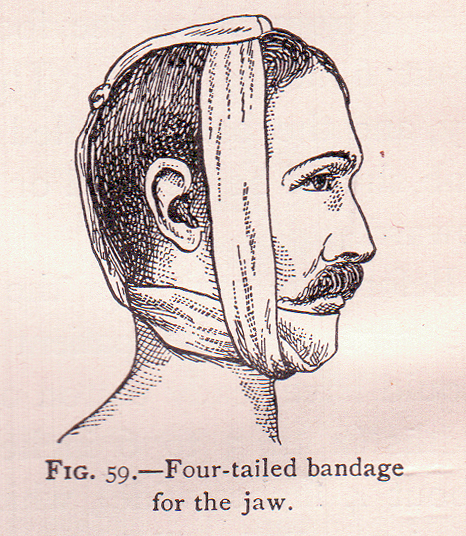
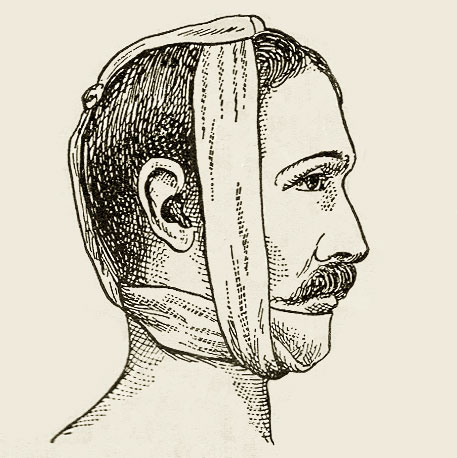
Style overhaul
Reverse order for episodes, removed background, removed JS, tweaked icon/image.

Fonts inspired by http://weblog.bocoup.com

diff --git a/index.html b/index.html
@@ -14,71 +14,78 @@
         <script src="/js/vendor/modernizr-2.6.2.min.js"></script>
     </head>
     <body>
-        <section id="description" data-type="background" data-speed="10">
-            <article>
+        <div id="wrapper">
+            <header>
                 <h1>Jawgrind</h1>
+                <h2>A podcast discussing every Star Trek episode ever.</h2>
                 <div class="icon"><img src="/img/jawgrind.jpg" alt="Jawgrind's mascot"></div>
-
-                <p>Jawgrind is a podcast where 5 guys (<a href="https://twitter.com/trey">Trey</a>, <a href="https://twitter.com/super_structure">Jason</a>, <a href="https://twitter.com/ploafmaster">Daniel</a>, <a href="https://twitter.com/calem">Cale</a>, <a href="https://twitter.com/philbarbato">Phil</a>) talk (mostly) about Star Trek.</p>
-                <p>So far, it's been about episodes of <a href="http://en.wikipedia.org/wiki/Star_Trek:_The_Original_Series">The Original Series</a>, but we plan to move onto the movies with the original cast and then <a href="http://en.wikipedia.org/wiki/Star_Trek_animated_series">The Animated Series</a>, <a href="http://en.wikipedia.org/wiki/Star_Trek:_The_Next_Generation">TNG</a>, <a href="http://en.wikipedia.org/wiki/DS9">DS9</a>, <a href="http://en.wikipedia.org/wiki/Star_Trek:_Voyager">Voyager</a>, and <a href="http://en.wikipedia.org/wiki/Star_Trek:_Enterprise ">Enterprise</a>. And then the rest of the movies. So. Basically everything. Eventually. Stick with us, won't you?</p>
-                <p>The show evolved out of a tech news podcast of sorts, but you can find the first bits of the current incarnation starting in <a href="http://jawgrind.com/4">Episode 4</a>.</p>
-
-                <section id="subscribe">
-                    <h2>Subscribe</h2>
-                    <ul>
-                        <li><a href="http://itunes.apple.com/us/podcast/jawgrind/id531588663">iTunes</a></li>
-                        <li><a href="http://feeds.feedburner.com/thirdavenue-jawgrind">RSS</a></li>
-                    </ul>
+                <section id="description" data-type="background" data-speed="10">
+                    <p>Jawgrind is a podcast where <a href="https://twitter.com/calem">Cale</a>, 
+                    <a href="https://twitter.com/ploafmaster">Daniel</a>, 
+                    <a href="https://twitter.com/super_structure">Jason</a>, 
+                    <a href="https://twitter.com/philbarbato">Phil</a>, and
+                    <a href="https://twitter.com/trey">Trey</a> talk about Star Trek.</p>
+                    <p>So far, we've talked about episodes of <a href="http://en.wikipedia.org/wiki/Star_Trek:_The_Original_Series">The Original Series</a>, but we plan to move onto the movies with the original cast and then <a href="http://en.wikipedia.org/wiki/Star_Trek_animated_series">The Animated Series</a>, <a href="http://en.wikipedia.org/wiki/Star_Trek:_The_Next_Generation">TNG</a>, <a href="http://en.wikipedia.org/wiki/DS9">DS9</a>, <a href="http://en.wikipedia.org/wiki/Star_Trek:_Voyager">Voyager</a>, and <a href="http://en.wikipedia.org/wiki/Star_Trek:_Enterprise ">Enterprise</a>. And then the rest of the movies. So. Basically everything. Eventually. Stick with us, won't you?</p>
+                    <p>The show evolved out of a tech news podcast of sorts, but you can find the first bits of the current incarnation starting in <a href="http://jawgrind.com/4">Episode 4</a>.</p>
                 </section>
-            </article>
-        </section>
+            </header>
 
-        <section id="hosts" data-type="background" data-speed="10">
-            <ul>
-                <li><a href="http://treypiepmeier.com"><img src="/img/trey.jpg" alt="Trey Piepmeier"></a></li>
-                <li><a href="http://jasoncoleman.net"><img src="/img/super_structure.jpg" alt="Jason Coleman"></a></li>
-                <li><a href="http://danielcwarshaw.com/"><img src="/img/ploafmaster.jpg" alt="Daniel Warshaw"></a></li>
-                <li><a href="http://midnightcheese.com"><img src="/img/calem.jpg" alt="Cale Mooth"></a></li>
-                <li><a href="http://philbarbato.com"><img src="/img/philbarbato.jpg" alt="Phil Barbato"></a></li>
-            </ul>
-        </section>
+            <section id="subscribe">
+                <h2>Subscribe</h2>
+                <ul>
+                    <li><a href="http://itunes.apple.com/us/podcast/jawgrind/id531588663">iTunes</a></li>
+                    <li><a href="http://feeds.feedburner.com/thirdavenue-jawgrind">RSS</a></li>
+                </ul>
+            </section>
 
-        <section id="episodes" data-type="background" data-speed="10">            
-            <h3>Episodes</h3>
-            <ol start="0">
-                <li><a href="http://jawgrind.com/zero">Episode 0</a></li>
-                <li><a href="http://jawgrind.com/1">Episode 1</a></li>
-                <li><a href="http://jawgrind.com/2">Stephen’s Moustache</a></li>
-                <li><a href="http://jawgrind.com/3">Hot Dog Tacos</a></li>
-                <li><a href="http://jawgrind.com/4">Your Little Faces Light Up When You Talk</a></li>
-                <li><a href="http://jawgrind.com/5">The Girl with the Wicker Basket Hair</a></li>
-                <li><a href="http://jawgrind.com/6">Dysentery. Ha ha.</a></li>
-                <li><a href="http://jawgrind.com/7">Lieutenant Don Knotts</a></li>
-                <li><a href="http://jawgrind.com/8">Hell Hath No Fury Like A Smokin’-Hot Android Sex-Slave Scorned</a></li>
-                <li><a href="http://jawgrind.com/9">Adjacent Jasons</a></li>
-                <li><a href="http://jawgrind.com/10">Brown Butter Delivery</a></li>
-                <li><a href="http://jawgrind.com/11">The Shat</a></li>
-                <li><a href="http://jawgrind.com/12">Yeoman Backrub</a></li>
-                <li><a href="http://jawgrind.com/13">Coffee with the Gorn</a></li>
-                <li><a href="http://jawgrind.com/14">Space Matlock</a></li>
-                <li><a href="http://jawgrind.com/15">Latin Sikh</a></li>
-                <li><a href="http://jawgrind.com/16">The Flesh of 1,000 Ear Slugs</a></li>
-                <li><a href="http://jawgrind.com/17">Deus Ex Eyelid</a></li>
-                <li><a href="http://jawgrind.com/18">Showtime at the Apollo</a></li>
-                <li><a href="http://jawgrind.com/19">We watch Star Trek so you don’t have to.</a></li>
-                <li><a href="http://jawgrind.com/20">PT to the max SD</a></li>
-                <li><a href="http://jawgrind.com/21">The Carcasses of the Parrot-Crabs</a></li>
-                <li><a href="http://jawgrind.com/22">Respectable Voltage</a></li>
-                <li><a href="http://jawgrind.com/23">Proto-Bronies</a></li>
-                <li><a href="http://jawgrind.com/24">Sans Phil</a></li>
-                <li><a href="http://jawgrind.com/25">Klingoni for Francis</a></li>
-                <li><a href="http://jawgrind.com/26">Driving Mr. Spock</a></li>
-            </ol>
-        </section>
+            <section id="hosts" data-type="background" data-speed="10">
+                <ul>
+                    <li><a href="http://treypiepmeier.com"><img src="/img/trey.jpg" alt="Trey Piepmeier"><span class="caption"><span>Trey</span></span></a></li>
+                    <li><a href="http://jasoncoleman.net"><img src="/img/super_structure.jpg" alt="Jason Coleman"><span class="caption"><span>Jason</span></span></a></li>
+                    <li><a href="http://danielcwarshaw.com/"><img src="/img/ploafmaster.jpg" alt="Daniel Warshaw"><span class="caption"><span>Daniel</span></span></a></li>
+                    <li><a href="http://midnightcheese.com"><img src="/img/calem.jpg" alt="Cale Mooth"><span class="caption"><span>Cale</span></span></a></li>
+                    <li><a href="http://philbarbato.com"><img src="/img/philbarbato.jpg" alt="Phil Barbato"><span class="caption"><span>Phil</span></span></a></li>
+                </ul>
+            </section>
 
-        <footer>
-            <p>I found the man with the bandaged head <a href="http://www.flickr.com/photos/perpetualplum/3795981214/in/set-72157621839586133">here</a>.</p>
-        </footer>
+            <section id="episodes" data-type="background" data-speed="10">
+                <h3>Episodes</h3>
+                <ol start="26" reversed>
+                    <li><a href="http://jawgrind.com/26">Driving Mr. Spock</a></li>
+                    <li><a href="http://jawgrind.com/25">Klingoni for Francis</a></li>
+                    <li><a href="http://jawgrind.com/24">Sans Phil</a></li>
+                    <li><a href="http://jawgrind.com/23">Proto-Bronies</a></li>
+                    <li><a href="http://jawgrind.com/22">Respectable Voltage</a></li>
+                    <li><a href="http://jawgrind.com/21">The Carcasses of the Parrot-Crabs</a></li>
+                    <li><a href="http://jawgrind.com/20">PT to the max SD</a></li>
+                    <li><a href="http://jawgrind.com/19">We watch Star Trek so you don’t have to.</a></li>
+                    <li><a href="http://jawgrind.com/18">Showtime at the Apollo</a></li>
+                    <li><a href="http://jawgrind.com/17">Deus Ex Eyelid</a></li>
+                    <li><a href="http://jawgrind.com/16">The Flesh of 1,000 Ear Slugs</a></li>
+                    <li><a href="http://jawgrind.com/15">Latin Sikh</a></li>
+                    <li><a href="http://jawgrind.com/14">Space Matlock</a></li>
+                    <li><a href="http://jawgrind.com/13">Coffee with the Gorn</a></li>
+                    <li><a href="http://jawgrind.com/12">Yeoman Backrub</a></li>
+                    <li><a href="http://jawgrind.com/11">The Shat</a></li>
+                    <li><a href="http://jawgrind.com/10">Brown Butter Delivery</a></li>
+                    <li><a href="http://jawgrind.com/9">Adjacent Jasons</a></li>
+                    <li><a href="http://jawgrind.com/8">Hell Hath No Fury Like A Smokin’-Hot Android Sex-Slave Scorned</a></li>
+                    <li><a href="http://jawgrind.com/7">Lieutenant Don Knotts</a></li>
+                    <li><a href="http://jawgrind.com/6">Dysentery. Ha ha.</a></li>
+                    <li><a href="http://jawgrind.com/5">The Girl with the Wicker Basket Hair</a></li>
+                    <li><a href="http://jawgrind.com/4">Your Little Faces Light Up When You Talk</a></li>
+                    <li><a href="http://jawgrind.com/3">Hot Dog Tacos</a></li>
+                    <li><a href="http://jawgrind.com/2">Stephen’s Moustache</a></li>
+                    <li><a href="http://jawgrind.com/1">Episode 1</a></li>
+                    <li><a href="http://jawgrind.com/zero">Episode 0</a></li>
+                </ol>
+            </section>
+
+            <footer>
+                <p>Copyright &copy; 2010-2013 Arthur L. Piepmeier III. All rights reserved.</p>
+                <p>I found the man with the bandaged head <a href="http://www.flickr.com/photos/perpetualplum/3795981214/in/set-72157621839586133">here</a>.</p>
+            </footer>
+        </div><!-- /wrapper -->
 
         <script src="//ajax.googleapis.com/ajax/libs/jquery/1.8.2/jquery.min.js"></script>
         <script>window.jQuery || document.write('<script src="js/vendor/jquery-1.8.2.min.js"><\/script>')</script>

diff --git a/css/main.css b/css/main.css
@@ -294,30 +294,50 @@ textarea { resize: vertical; }
   p, h2, h3 { orphans: 3; widows: 3; }
   /* line 295, sass/_html5bp.scss */
   h2, h3 { page-break-after: avoid; } }
-/* line 10, sass/main.scss */
-section[data-type=background] { position: relative; overflow: hidden; *zoom: 1; color: rgba(255, 255, 255, 0.8); }
+/* line 5, sass/main.scss */
+body { font-family: "PT Sans", Helvetica, sans-serif; font-size: 1em; text-shadow: 1px 1px 2px rgba(0, 0, 0, 0.6); color: rgba(255, 255, 255, 0.9); background: #444; }
+
+/* line 12, sass/main.scss */
+#wrapper { margin: 0 5em; }
 
 /* line 16, sass/main.scss */
-#description { font-size: 20px; background: url(../img/galaxy_cluster_abell_520.jpg) 50% 0 fixed; background-size: 100% auto; }
+section[data-type=background] { position: relative; overflow: hidden; *zoom: 1; }
 
-/* line 22, sass/main.scss */
-#hosts { min-height: 300px; padding: 100px 0 0; background: url(../img/ngc5189.jpg) 50% 0 fixed; }
-
+/* line 21, sass/main.scss */
+header { overflow: hidden; *zoom: 1; }
+/* line 23, sass/main.scss */
+header h2 { font-size: 1em; font-weight: normal; }
 /* line 28, sass/main.scss */
-#episodes { background: url(../img/ngc2818.jpg) 50% 0 fixed; }
+header .icon img { width: 100%; max-width: 300px; float: left; -webkit-border-radius: 10px; -moz-border-radius: 10px; -ms-border-radius: 10px; -o-border-radius: 10px; border-radius: 10px; }
 
-/* line 35, sass/main.scss */
-a { text-decoration: none; background: rgba(255, 255, 0, 0.3); color: #333300; padding: 1px 2px; }
-/* line 40, sass/main.scss */
-a:hover { color: #000; background: yellow; }
+/* line 37, sass/main.scss */
+#description { padding-left: 1em; font-size: 1em; }
 
-/* line 46, sass/main.scss */
+/* line 43, sass/main.scss */
 #hosts ul { list-style: none; padding: 0; overflow: hidden; *zoom: 1; }
-/* line 50, sass/main.scss */
-#hosts ul li { float: left; margin-right: 10px; border: solid 2px white; box-shadow: 1px 1px 6px rgba(0, 0, 0, 0.3); border-width: 1px; }
+/* line 47, sass/main.scss */
+#hosts ul li { float: left; margin-right: 10px; background: yellow; }
+/* line 51, sass/main.scss */
+#hosts ul li a { padding: 0; position: relative; display: inline-block; border: 2px solid white; }
+/* line 56, sass/main.scss */
+#hosts ul li a .caption { opacity: 0; position: absolute; bottom: 0; left: 0; width: 100%; background: rgba(255, 0, 255, 0.6); font-size: 1em; color: #fff; -webkit-transition: 0.2s; -moz-transition: 0.2s; -o-transition: 0.2s; transition: 0.2s; }
+/* line 65, sass/main.scss */
+#hosts ul li a .caption span { padding: 5px; }
+/* line 71, sass/main.scss */
+#hosts ul li a:hover .caption { opacity: 1; }
 
-/* line 59, sass/main.scss */
+/* line 83, sass/main.scss */
+h1, h2 { color: #fff; }
+
+/* line 86, sass/main.scss */
+a { text-decoration: none; color: rgba(255, 255, 0, 0.8); border-bottom: 1px solid rgba(255, 255, 0, 0.2); -webkit-transition: 0.1s; -moz-transition: 0.1s; -o-transition: 0.1s; transition: 0.1s; }
+/* line 91, sass/main.scss */
+a:hover { color: yellow; border-color: yellow; }
+
+/* line 98, sass/main.scss */
 #episodes li { margin-bottom: 5px; }
 
-/* line 64, sass/main.scss */
-footer { display: none; font-size: 10px; padding-top: 50px; clear: both; }
+/* line 103, sass/main.scss */
+footer { font-size: 0.7em; padding: 50px 0 20px 0; color: rgba(255, 255, 255, 0.4); }
+/* line 107, sass/main.scss */
+footer a { padding: 0; background: none; }

diff --git a/css/sass/main.scss b/css/sass/main.scss
@@ -2,56 +2,95 @@
 @import "html5bp";
 @import "compass";
 
-@mixin nice-shadow {
-    border: solid 2px white;
-    box-shadow: 1px 1px 6px rgba(0, 0, 0, 0.3);
+body {
+    font-family: "PT Sans", Helvetica, sans-serif;
+    font-size: 1em;
+    text-shadow: 1px 1px 2px rgba(0, 0, 0, 0.6);
+    color: rgba(255, 255, 255, .9);
+    background: #444;
+}
+#wrapper {
+    margin: 0 5em;
 }
 
 section[data-type=background] {
     position: relative;
     @include clearfix;
-    color: rgba(255, 255, 255, .8);
 }
 
-#description {
-    font-size: 20px;
-    background: url(../img/galaxy_cluster_abell_520.jpg) 50% 0 fixed;
-    background-size: 100% auto;
-}
-
-#hosts {
-    min-height: 300px;
-    padding: 100px 0 0;
-    background: url(../img/ngc5189.jpg) 50% 0 fixed;
-}
-
-#episodes {
-    background: url(../img/ngc2818.jpg) 50% 0 fixed;
-}
-
-h1 {
-
-}
-a {
-    text-decoration: none;
-    background: rgba(255, 255, 0, .3);
-    color: darken(yellow, 40%);
-    padding: 1px 2px;
-    &:hover {
-        color: #000;
-        background: yellow;
+header {
+    @include clearfix;
+    h2 {
+        font-size: 1em;
+        font-weight: normal;
+    }
+    .icon {
+        img {
+            width: 100%;
+            max-width: 300px;
+            float: left;
+            @include border-radius(10px);
+        }
     }
 }
 
-#hosts ul {
-    list-style: none;
-    padding: 0;
-    @include clearfix;
-    li {
-        float: left;
-        margin-right: 10px;
-        @include nice-shadow;
-        border-width: 1px;
+#description {
+    padding-left: 1em;
+    font-size: 1em;
+}
+
+#hosts {
+    ul {
+        list-style: none;
+        padding: 0;
+        @include clearfix;
+        li {
+            float: left;
+            margin-right: 10px;
+            background: rgba(255, 255, 0, 1);
+            a {
+                padding: 0;
+                position: relative;
+                display: inline-block;
+                border: 2px solid white;
+                .caption {
+                    opacity: 0;
+                    position: absolute;
+                    bottom: 0;
+                    left: 0;
+                    width: 100%;
+                    background: rgba(255, 0, 255, 0.6);
+                    font-size: 1em;
+                    color: #fff;
+                    span {
+                        padding: 5px;
+                    }
+                    @include transition(0.2s);
+                }
+                &:hover {
+                    .caption {
+                        opacity: 1;
+                    }
+                }
+            }
+        }
+    }
+}
+
+#episodes {
+}
+
+h1, h2 {
+    color: #fff;
+}
+a {
+    text-decoration: none;
+    color: rgba(255, 255, 0, 0.8);
+    border-bottom: 1px solid rgba(255, 255, 0, 0.2);
+    @include transition(0.1s);
+    &:hover {
+        color: yellow;
+        border-color: yellow;
     }
 }
 
@@ -62,8 +101,11 @@ a {
 }
 
 footer {
-    display: none;
-    font-size: 10px;
-    padding-top: 50px;
-    clear: both;
+    font-size: 0.7em;
+    padding: 50px 0 20px 0;
+    color: rgba(255, 255, 255, 0.4);
+    a {
+        padding: 0;
+        background: none;
+    }
 }
